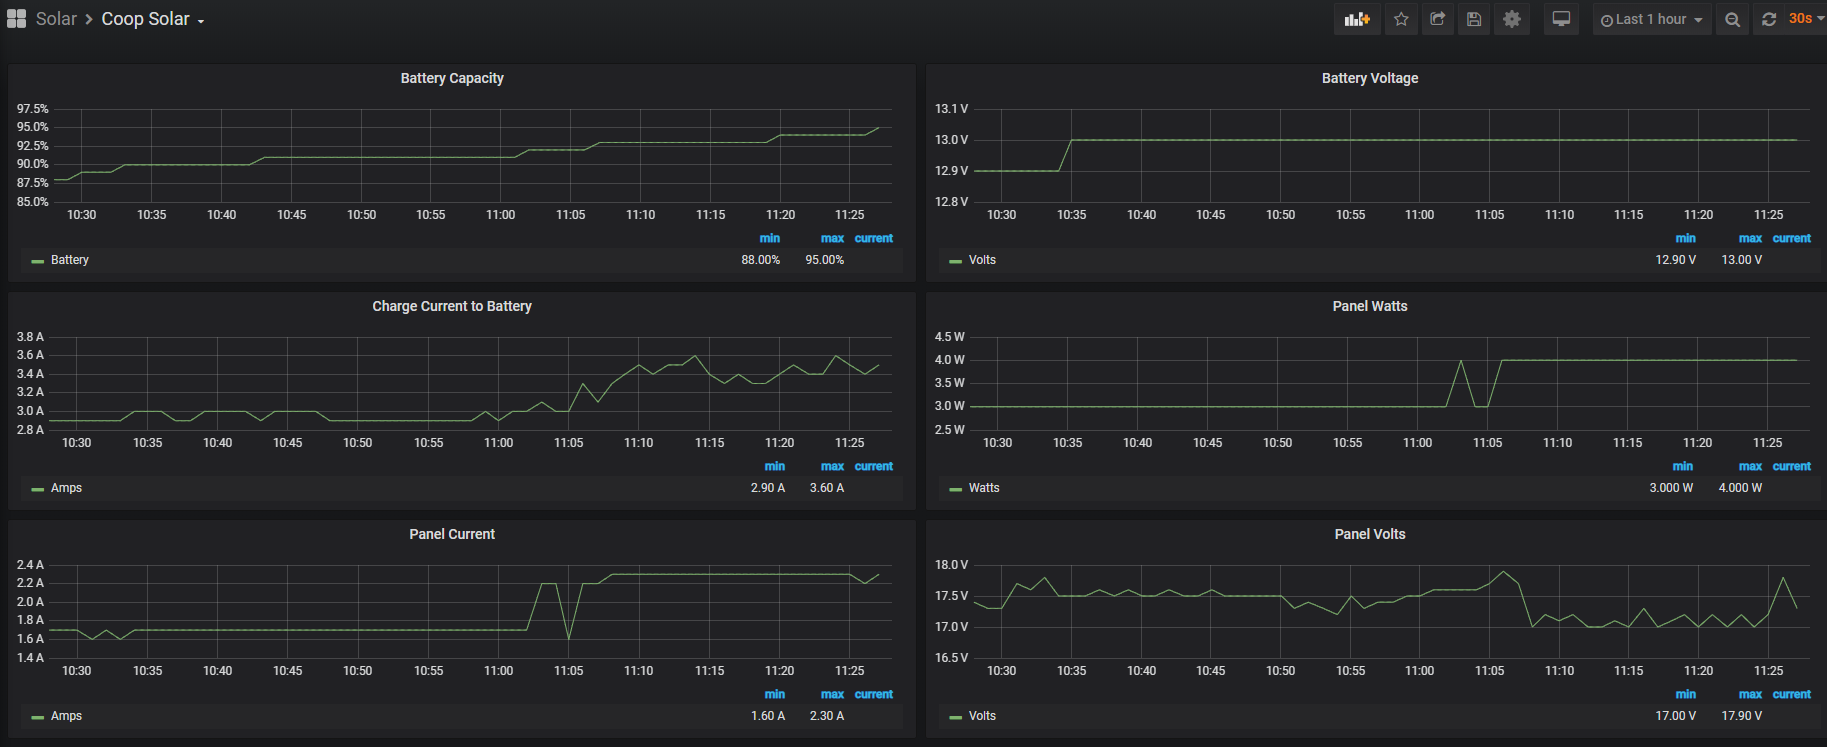
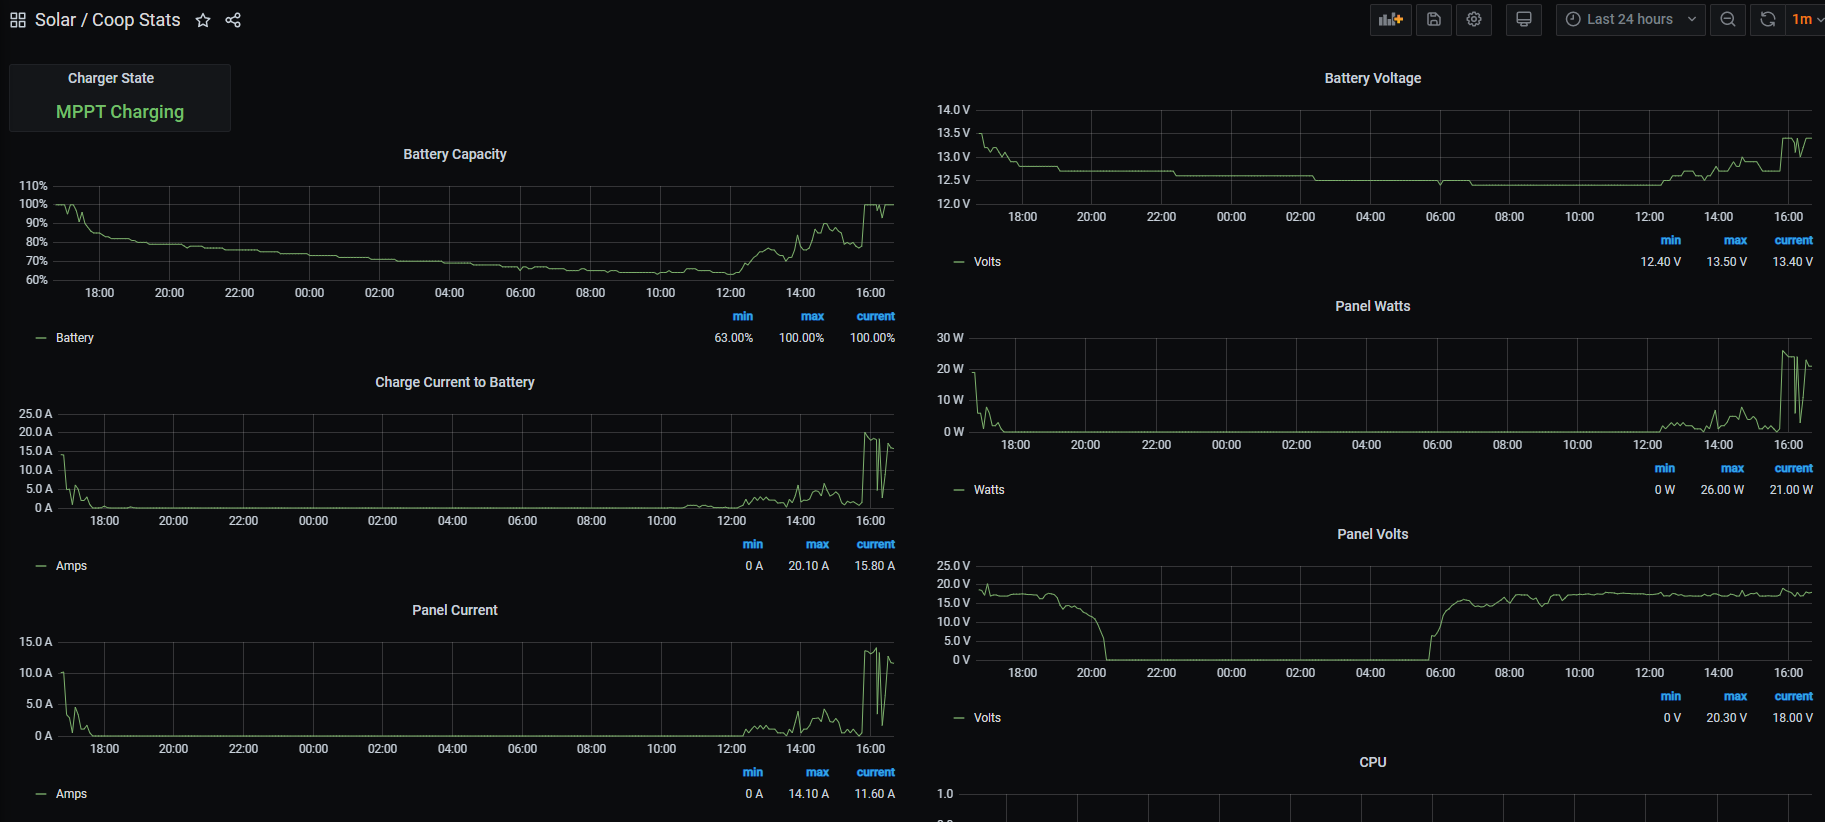
Additional Data Points added

diff --git a/getcharge.py b/getcharge.py
@@ -20,11 +20,13 @@ PanelWatts = client.read_holding_registers(0x109, 1, unit=1)
 solarVoltage = float(PanelVolt.registers[0] * 0.1)
 solarCurrent = float(PanelCurrent.registers[0] *0.1)
 batteryVoltage = float(BatVolt.registers[0] * 0.1)
+ChargingState = client.read_holding_registers(0x120, 1, unit=1)
 batteryCapacity = SOC.registers[0]
 #controllerTemp = Temps.registers[0]
 #batteryTemp = Temps.registers[1]
 chrgCurrent = float(ChargeCurrent.registers[0] * 0.1)
 chrgPower = PanelWatts.registers[0]
+chrgState = ChargingState.registers[0]
 print "Solar Voltage", solarVoltage
 print "Battery Voltage", batteryVoltage
 print "Battery Capacity", batteryCapacity
@@ -33,20 +35,41 @@ print "Solar Current", solarCurrent
 #print batteryTemp
 print "Charge Current", chrgCurrent
 print "Charge Power", chrgPower
+if chrgState == 0:
+        State = 'Charging Deactivated'
+elif chrgState == 1:
+        State = 'Charging Activated'
+elif chrgState == 2:
+        State = "MPPT Charging"
+elif chrgState == 3:
+        State = "Equalizing Charging"
+elif chrgState == 4:
+        State = "Boost Charging"
+elif chrgState == 5:
+        State = "Floating Charging"
+elif chrgState == 6:
+        State = "Current Limiting"
+else:
+        State = 'Invalid'
+
+print chrgState
+print State
 # Send the values to the influxdb
 data_end_time = int(time.time() * 1000)
 dbclient = InfluxDBClient(host='<IP>', port=8086)
 dbclient.create_database('<DB Name>')
 data = []
-data.append("{measurement} solarVoltage={solarVoltage},solarCurrent={solarCurrent},batteryVoltage={batteryVoltage},chargeCurrent={chargeCurrent},chargePower={chargePower},batteryCapacity={batteryCapacity} {timestamp}"
-	.format(measurement= 'solar',
-		solarVoltage= solarVoltage,
-		solarCurrent= solarCurrent,
-		batteryVoltage= batteryVoltage,
-		chargeCurrent= chrgCurrent,
-		chargePower= chrgPower,
-		batteryCapacity= batteryCapacity,
-		timestamp=data_end_time))
-dbclient.write_points(data, database='<DB Name>', time_precision='ms', protocol='line')
+data.append("{measurement} solarVoltage={solarVoltage},solarCurrent={solarCurrent},batteryVoltage={batteryVoltage},chargeCurrent={chargeCurrent},chargePower={chargePower},batteryCapacity={batteryCapacity},ChrgState={ChargerState} {times$
+        .format(measurement= 'solar',
+                solarVoltage= solarVoltage,
+                solarCurrent= solarCurrent,
+                batteryVoltage= batteryVoltage,
+                chargeCurrent= chrgCurrent,
+                chargePower= chrgPower,
+                batteryCapacity= batteryCapacity,
+                ChargerState=chrgState,
+                timestamp=data_end_time))
+dbclient.write_points(data, database=<DB Name>, time_precision='ms', protocol='line')
 
 client.close()
+
